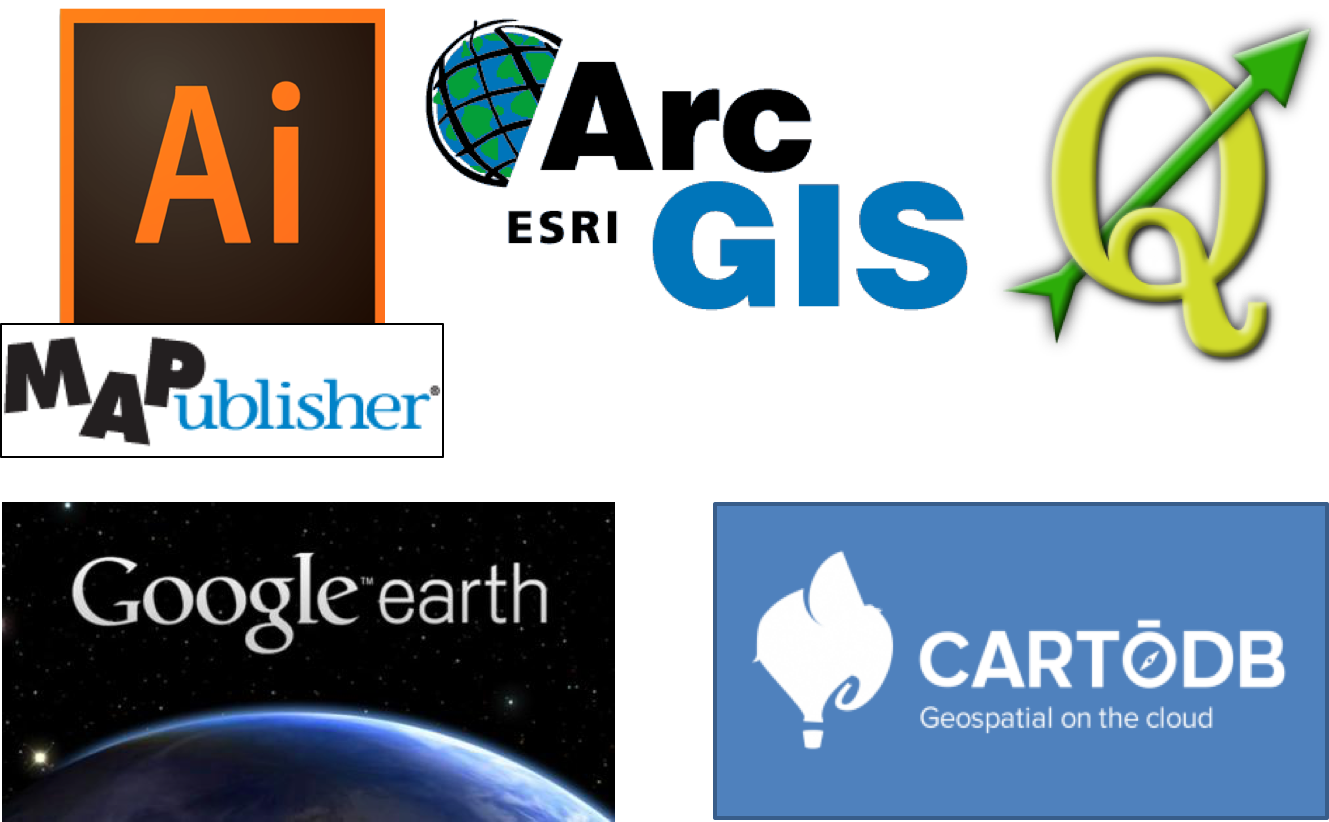
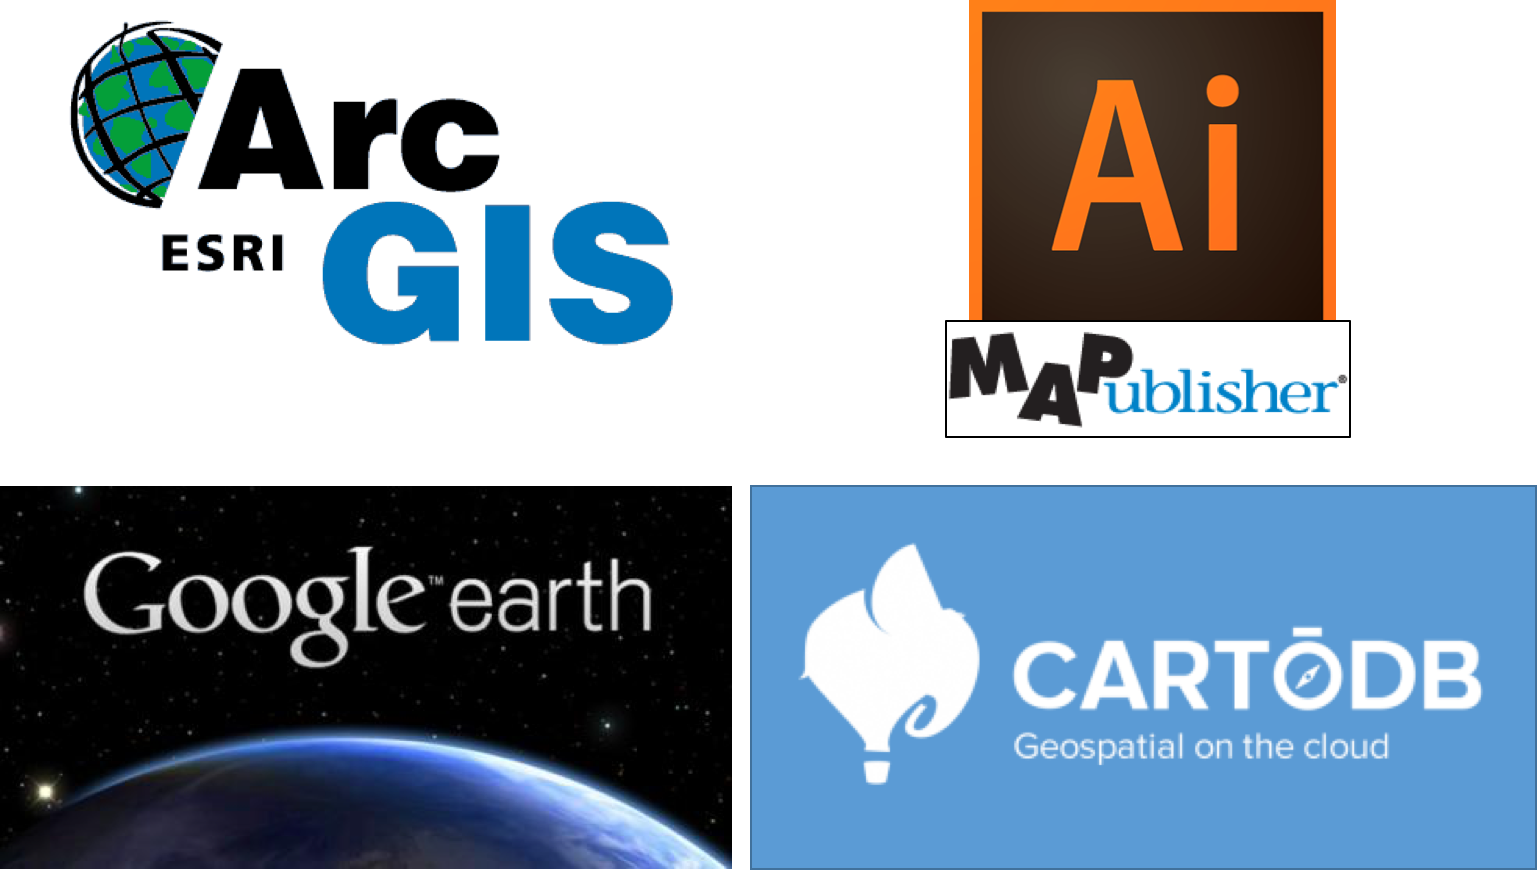
moved tools and revised gis image issue #52

diff --git a/20160428_Introduction_to_GIS_Fundamentals/index.html b/20160428_Introduction_to_GIS_Fundamentals/index.html
@@ -152,16 +152,15 @@ class:center,middle
 
 ---
 
-#Dorling Cartogram – Obesity by State
-![img-full](images/dorling.png)
-#####Source: http://homes.cs.washington.edu/~jheer//files/zoo/ 
-
----
-
 #Area Cartogram – Electoral Votes by State
 ![img-center-60](images/Cartogram_US.png)
 #####Source: http://training.fws.gov/courses/csp/csp7203/resources/Types_of_Maps_2013.pdf 
 
+---
+
+#Dorling Cartogram – Obesity by State
+![img-full](images/dorling.png)
+#####Source: http://homes.cs.washington.edu/~jheer//files/zoo/ 
 
 ---
 
@@ -226,81 +225,6 @@ class:center,middle
 
 #Basic Map Using QGIS
 ![img](images/spatial_example.png)
-
----
-
-#The Tools
-
-![img-full](images/gis.png)
-
----
-
-#[ArcGIS](http://www.esri.com/software/arcgis/arcgis-for-desktop)
-
-![img-center-large](images/arcgis.jpg)
-[Source](http://www.esri.com/news/arcuser/1012/a-workflow-for-creating-and-sharing-maps.html)
-
----
-
-#[Adobe Illustrator](http://www.adobe.com/products/illustrator.html)/[Mapublisher](http://www.avenza.com/mapublisher)
-![img-full](images/illustrator.jpg)
-[Source](http://www.avenza.com/resources/blog/2011/06/28/how-get-open-street-map-data-adobe-illustrator-mapublisher)
-
----
-
-#[Google Earth](https://www.google.com/earth/)
-
-![img-center-80](images/google_earth.png)
-
----
-
-#[Google Fusion Tables](https://sites.google.com/site/fusiontablestalks/stories)
-<iframe width="100%" height="430" scrolling="no" frameborder="no" src="https://www.google.com/fusiontables/embedviz?q=select+col54%2C+col55+from+1dNtdy7FuBBZ2qTxX7jgZ5Dig8n96oxRrWFjuhYpJ+where+col3+%3E%3D+0+and+col3+%3C%3D+4+and+col26+%3D+2+limit+1000&amp;viz=HEATMAP&amp;h=true&amp;lat=40.844685&amp;lng=-73.915349&amp;t=1&amp;z=12&amp;l=col54&amp;y=2&amp;tmplt=2&amp;hmd=true&amp;hmg=%2366ff0000%2C%2393ff00ff%2C%23c1ff00ff%2C%23eeff00ff%2C%23f4e300ff%2C%23f4e300ff%2C%23f9c600ff%2C%23ffaa00ff%2C%23ff7100ff%2C%23ff3900ff%2C%23ff0000ff&amp;hmo=0.6&amp;hmr=26&amp;hmw=0&amp;hml=TWO_COL_LAT_LNG"></iframe>
-Source: [NYC Open Data 311 Noise Complaints, 1 Jan - 20 May 2014, Between Midnight and 4 am in the Bronx](https://www.google.com/fusiontables/DataSource?docid=1dNtdy7FuBBZ2qTxX7jgZ5Dig8n96oxRrWFjuhYpJ#map:id=3)
-
----
-
-#Proprietary vs Open Source Software
---
-
-+ Proprietary software source code is owned by an individual or an organization and tightly restricted (usually for profit)
---
-
-+ Open source software source code is freely available to anyone for download, alteration, and republishing
-
----
-
-#Proprietary vs Open Source Software
-
---
-
-+ Proprietary software code is generally supported by a team of paid professionals working for the organization that owns the code
---
-
-+ Open source software code is generally supported by a mix of paid and volunteer professionals that contribute changes back to the community
----
-
-#Proprietary vs Open Source Software
---
-
-+ Proprietary software is often available only by purchasing a license
---
-
-+ Open source software is free to use though there generally a license that specifies the restrictions (if any) on its use and reuse
---
-
-+ Companies using open source software may charge for the use of the software through their proprietary implementations or via their infrastructure
-
----
-
-class:center,middle
-#Examples of Open Source Mapping Software
-
-
----
-
-#[CartoDB](https://cartodb.com/)
-<iframe width="100%" height="480" frameborder="0" src="https://richard-datapolitan.cartodb.com/viz/c0d4f39e-962e-11e4-9b3b-0e9d821ea90d/embed_map" allowfullscreen webkitallowfullscreen mozallowfullscreen oallowfullscreen msallowfullscreen></iframe>
 
 ---
 
@@ -877,13 +801,6 @@ class:center,middle
 
 ---
 
-#Your Turn
-+ Create a new shapefile of just the 311 service requests in your borough
-+ Outline the borough using the polygon selection
-+ Save the shapefile to your desktop for us to use later
-
----
-
 #What We've Covered
 --
 
@@ -1191,6 +1108,82 @@ class:center,middle
 --
 
 + Creating a printable map in print composer
+
+---
+
+#Some Other GIS Tools
+
+![img-full](images/gis.png)
+
+---
+
+#[ArcGIS](http://www.esri.com/software/arcgis/arcgis-for-desktop)
+
+![img-center-large](images/arcgis.jpg)
+[Source](http://www.esri.com/news/arcuser/1012/a-workflow-for-creating-and-sharing-maps.html)
+
+---
+
+#[Adobe Illustrator](http://www.adobe.com/products/illustrator.html)/[Mapublisher](http://www.avenza.com/mapublisher)
+![img-full](images/illustrator.jpg)
+[Source](http://www.avenza.com/resources/blog/2011/06/28/how-get-open-street-map-data-adobe-illustrator-mapublisher)
+
+---
+
+#[Google Earth](https://www.google.com/earth/)
+
+![img-center-80](images/google_earth.png)
+
+---
+
+#[Google Fusion Tables](https://sites.google.com/site/fusiontablestalks/stories)
+<iframe width="100%" height="430" scrolling="no" frameborder="no" src="https://www.google.com/fusiontables/embedviz?q=select+col54%2C+col55+from+1dNtdy7FuBBZ2qTxX7jgZ5Dig8n96oxRrWFjuhYpJ+where+col3+%3E%3D+0+and+col3+%3C%3D+4+and+col26+%3D+2+limit+1000&amp;viz=HEATMAP&amp;h=true&amp;lat=40.844685&amp;lng=-73.915349&amp;t=1&amp;z=12&amp;l=col54&amp;y=2&amp;tmplt=2&amp;hmd=true&amp;hmg=%2366ff0000%2C%2393ff00ff%2C%23c1ff00ff%2C%23eeff00ff%2C%23f4e300ff%2C%23f4e300ff%2C%23f9c600ff%2C%23ffaa00ff%2C%23ff7100ff%2C%23ff3900ff%2C%23ff0000ff&amp;hmo=0.6&amp;hmr=26&amp;hmw=0&amp;hml=TWO_COL_LAT_LNG"></iframe>
+Source: [NYC Open Data 311 Noise Complaints, 1 Jan - 20 May 2014, Between Midnight and 4 am in the Bronx](https://www.google.com/fusiontables/DataSource?docid=1dNtdy7FuBBZ2qTxX7jgZ5Dig8n96oxRrWFjuhYpJ#map:id=3)
+
+---
+
+#Proprietary vs Open Source Software
+--
+
++ Proprietary software source code is owned by an individual or an organization and tightly restricted (usually for profit)
+--
+
++ Open source software source code is freely available to anyone for download, alteration, and republishing
+
+---
+
+#Proprietary vs Open Source Software
+
+--
+
++ Proprietary software code is generally supported by a team of paid professionals working for the organization that owns the code
+--
+
++ Open source software code is generally supported by a mix of paid and volunteer professionals that contribute changes back to the community
+---
+
+#Proprietary vs Open Source Software
+--
+
++ Proprietary software is often available only by purchasing a license
+--
+
++ Open source software is free to use though there generally a license that specifies the restrictions (if any) on its use and reuse
+--
+
++ Companies using open source software may charge for the use of the software through their proprietary implementations or via their infrastructure
+
+---
+
+class:center,middle
+#Examples of Open Source Mapping Software
+
+
+---
+
+#[CartoDB](https://cartodb.com/)
+<iframe width="100%" height="480" frameborder="0" src="https://richard-datapolitan.cartodb.com/viz/c0d4f39e-962e-11e4-9b3b-0e9d821ea90d/embed_map" allowfullscreen webkitallowfullscreen mozallowfullscreen oallowfullscreen msallowfullscreen></iframe>
+
 
 ---
 
